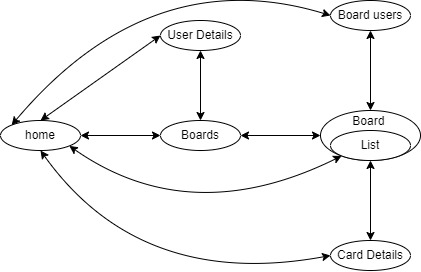
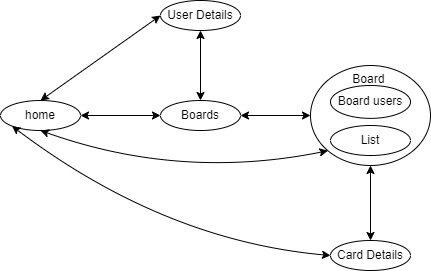
final commit phase 2

diff --git a/static-content/sparouter/handlers.js b/static-content/sparouter/handlers.js
@@ -3,7 +3,7 @@ import {
     createHTMLBoardBox,
     createHTMLList,
     createRows, darkerColor, fetchReq,
-    getBoardColor, getUserAvatar, visitBoard
+    getBoardColor, getUserAvatar, usersDropdown, visitBoard
 } from "./utils/utils.js"
 import {boardFunc, createList} from "./utils/buttonFuncs.js";
 import {BASE_URL, user, MAX_RECENT_BOARDS, MAX_BOARDS_DISPLAY, RECENT_BOARDS} from "./utils/storage.js";
@@ -31,7 +31,7 @@ function getHome(mainContent) {
     mainContent.replaceChildren(h1, h2, recent)
 }
 
-async function getUser(mainContent, token) {
+async function getUser(mainContent, args, token) {
     document.title = "OurTrello | User"
 
     const user = await fetchReq("user", "GET")
@@ -58,11 +58,10 @@ async function getUser(mainContent, token) {
     mainContent.replaceChildren(div)
 }
 
-async function getCard(mainContent) {
-    const arrayIds = document.location.hash.replace("#board/", "").split("/");
-    const idBoard = arrayIds[0];
-    const idList = arrayIds[2];
-    const idCard = arrayIds[4];
+async function getCard(mainContent,args, token) {
+    const idBoard = args.idBoard;
+    const idList = args.idList;
+    const idCard = args.idCard;
 
     document.title = `OurTrello | Card`;
 
@@ -211,8 +210,8 @@ async function getBoards(mainContent) {
     mainContent.appendChild(boardsContainer)
 }
 
-async function getBoard(mainContent) {
-    const id = document.location.hash.split("/")[1]
+async function getBoard(mainContent, args, token) {
+    const id = args.idBoard
 
     const board = await fetchReq(`board/${id}`, "GET")
     document.title = `OurTrello | ${board.name}`
@@ -237,6 +236,8 @@ async function getBoard(mainContent) {
     createListButton.addEventListener("click", () => createList(boardContainer, board))
 
     boardContainer.appendChild(createListButton)
+
+    boardContainer.appendChild(await usersDropdown(board.idBoard))
 
     const color = getBoardColor(board.idBoard)
     mainContent.style.background = `linear-gradient(135deg, ${darkerColor(color)}, ${color})`

diff --git a/static-content/sparouter/utils/utils.js b/static-content/sparouter/utils/utils.js
@@ -220,3 +220,44 @@ function getNextCard(container, y) {
         else return closest
     }, {offset: Number.NEGATIVE_INFINITY}).element
 }
+
+export async function usersDropdown(idBoard) {
+
+    const divDrop = document.createElement("div")
+    divDrop.classList.add("dropdown","dropdown-menu-user")
+
+    const button = document.createElement("button")
+    button.classList.add("btn", "btn-secondary", "dropdown-toggle")
+    button.setAttribute("data-bs-toggle","dropdown")
+    button.ariaExpanded = "false"
+    button.id = "DropdownBtn"
+    button.innerText = "🙋♂ Users"
+
+    divDrop.appendChild(button)
+
+    const ul = document.createElement("ul")
+    ul.classList.add("dropdown-menu","dropdown-menu-dark")
+    ul.ariaLabel = "DropdownBtn"
+
+    const users = await fetchReq(`board/${idBoard}/allUsers`, "GET")
+
+    users.forEach( user => {
+            const li = document.createElement("li")
+            li.classList.add("dropdown-item-user")
+
+            const img = document.createElement("img")
+            img.src = user.avatar
+            img.classList.add("dropdown-item-avatar")
+
+            const span = document.createElement("span")
+            span.innerText = user.name
+
+            li.appendChild(img)
+            li.appendChild(span)
+            ul.appendChild(li)
+        }
+    )
+
+    divDrop.appendChild(ul)
+    return divDrop
+}

diff --git a/static-content/sparouter/utils/buttonFuncs.js b/static-content/sparouter/utils/buttonFuncs.js
@@ -53,7 +53,13 @@ export async function createCard(listCards, list) {
     listCards.appendChild(input)
     listCards.scrollTop = listCards.scrollHeight
     input.focus()
-    const handleAddCard = async () => { await addCard(listCards, input, list) }
+    const handleAddCard = async () => {
+        if(input.value.trim() === ""){
+            listCards.removeChild(input)
+            return
+        }
+        await addCard(listCards, input, list)
+    }
 
     input.addEventListener("focusout", handleAddCard)
     input.addEventListener("keydown", async (event) => {
@@ -64,7 +70,6 @@ export async function createCard(listCards, list) {
 }
 
 async function addCard(listCards, input, list) {
-    if(input.value.trim() === "") return
     const card = {
         name: input.value,
         description: null,

diff --git a/src/main/kotlin/pt/isel/ls/server/data/dataMem/CardDataMem.kt b/src/main/kotlin/pt/isel/ls/server/data/dataMem/CardDataMem.kt
@@ -39,8 +39,9 @@ class CardDataMem : CardData {
 
     override fun moveCard(idCard: Int, idListNow: Int, idBoard: Int, idListDst: Int, idxDst: Int) {
         val card = getCard(idCard, idListNow, idBoard)
+        val cardIdx = card.idx
         cards.forEach {
-            if (it.idList == idListNow && it.idx >= card.idx) it.idx--
+            if (it.idList == idListNow && it.idx >= cardIdx) it.idx--
             if (it.idList == idListDst && it.idx >= idxDst) it.idx++
         }
         card.idList = idListDst

diff --git a/static-content/sparouter/css/styles.css b/static-content/sparouter/css/styles.css
@@ -251,3 +251,18 @@
     color: gray;
     box-shadow: 0 2px 4px rgba(0, 0, 0, 0.85);
 }
+
+.dropdown-item-user {
+    pointer-events: none !important;
+}
+
+.dropdown-item-avatar {
+    width : 30px;
+    margin-right: 10px;
+    border-radius: 15px;
+}
+
+.dropdown-menu-user {
+    display: inline-block;
+    margin-left: 20px;
+}

diff --git a/static-content/sparouter/index.js b/static-content/sparouter/index.js
@@ -28,7 +28,7 @@ async function hashChangeHandler() {
     const handler = router.getRouteHandler(obj.path) // ,obj.args
 
     try {
-        await handler(mainContent, user.token)
+        await handler(mainContent, obj.args, user.token)
     } catch (e) {
         handlers.getErrorPage(mainContent, e)
         throw e
